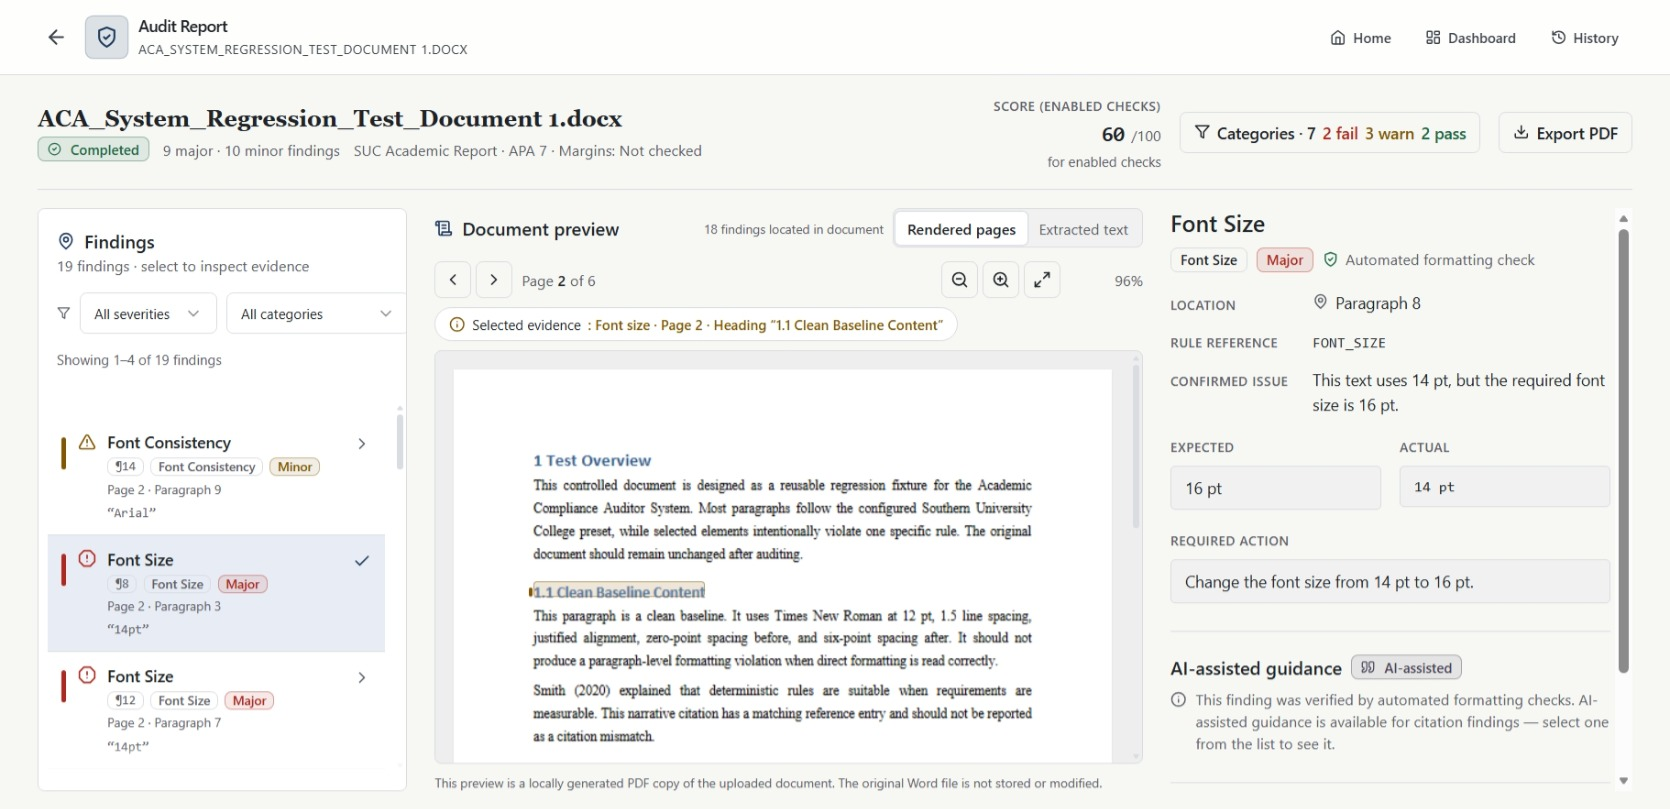
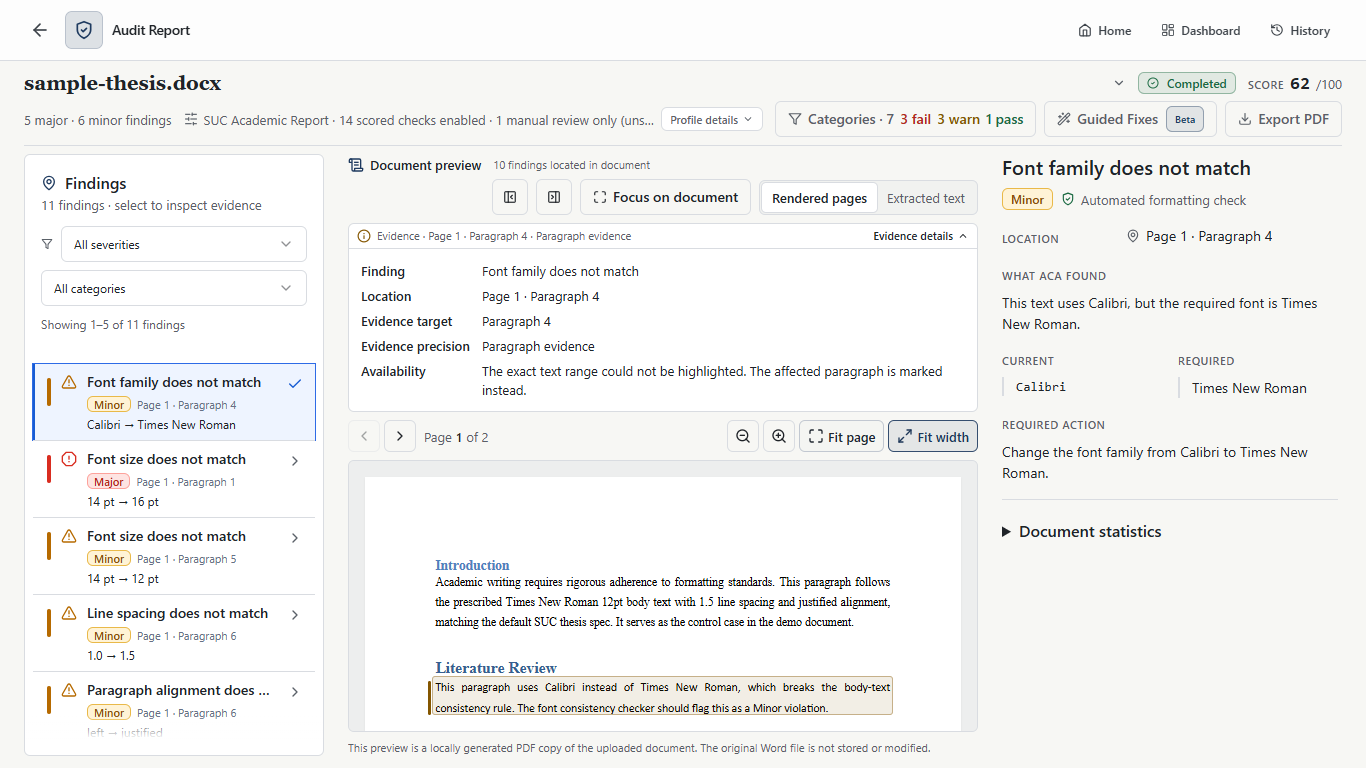
Update documentation for approved audit workspace UI

diff --git a/docs/USER_GUIDE.md b/docs/USER_GUIDE.md
@@ -22,7 +22,7 @@ Documents are processed locally on your machine. Your original DOCX file is read
 
 ## 4. Select a Formatting Profile
 
-Above the upload area, choose one of:
+On the Dashboard, use **Selected profile** to choose one of:
 
 - **SUC Academic Report** (recommended default)
 - **APA 7 Student Paper**
@@ -54,13 +54,21 @@ evidence only** shows **Rendered page could not be determined** without
 changing the current preview page. A page location does not establish
 rendered visibility, field freshness, numbering format or sequence.
 
-The Dashboard separates **Scored checks**, **Manual review only · Unscored**,
-**Not checked**, and **Citation style**. Headers, Footers, and Page numbers
-each show their own status; enabled page numbers also show placement.
-Use **Review full requirements** for the complete grouped inventory in a
-scrollable dialog. Opening it does not expand the Dashboard or move the
-audit-start controls. Escape or **Close** returns focus to its trigger.
-Header, Footer, and Page Number requirements never affect the score.
+The Dashboard summarizes the selected profile's coverage:
+
+- **Scored checks** (green) — requirements ACA checks automatically; these checks affect the compliance score.
+- **Manual review only · Unscored** (purple) — requirements that need human review and do not affect the numeric compliance score. ACA has not completed that manual review.
+- **Not checked by ACA** (restrained red) — requirements not included in this profile's automated checks, not requirements found to have failed.
+
+These groups describe coverage, not passed document results. **Citation style**
+is profile configuration, shown separately from the coverage groups.
+
+Use **Review full requirements** to open **Full profile requirements**, a
+scrollable modal for the **currently selected profile**. It includes the
+profile overview, formatting exemptions, Scored checks, Manual review only,
+Not checked, and Citation settings. Opening it does not expand the Dashboard
+or move the audit-start controls. Escape or **Close** returns focus to its
+trigger. Header, Footer, and Page Number requirements never affect the score.
 
 Inspect and correct these requirements manually in Word; Local AI and
 Guided Fixes do not apply. Existing History entries retain their saved
@@ -78,24 +86,39 @@ Results open in the Audit Workspace:
 
 - **Score** — a weighted compliance score out of 100 for the checks your profile enables. Major findings deduct more than minor ones. Very old audits may show *Unavailable* instead of a score.
 - **Findings list** — compact rows show the finding, severity, location and current-to-required comparison where available. Use the severity and category filters to narrow the list; select a row to read its complete details.
-- **Current and Required** — what ACA found versus what the saved profile requires, followed by the required action in Finding Details.
-- **Not checked** — a profile requirement can be switched off (for example, margins); this means the check does not apply, not that it passed.
+- **What ACA found** — the selected finding's existing explanation, when available, before its comparison values.
+- **Current and Required** — read-only report values: what the document contains and what the saved profile requires. They are not editable fields.
+- **Required action** — explains the action to take to address the selected finding.
+- **Not checked** — a requirement is not included in the selected profile's automated checks; this does not mean it passed.
+
+A proposed correction appears only through the **Guided Fixes** proposal
+workflow, not for every finding in ordinary Finding Details.
 
 ACA reports the checks it supports. **It does not guarantee institutional acceptance or complete academic compliance** — treat findings as guidance for your own review.
 
 Open the document-name disclosure in the report header to read a long filename
 without leaving the workspace. It supports keyboard activation and Escape to
-close. **Profile details** always describes that audit's saved profile snapshot,
-not a later edit to the current profile.
+close. **Profile details** opens a modal showing the **saved profile snapshot
+associated with that audit**, not the currently selected Dashboard profile.
+Later edits to, or deletion of, a live profile do not silently change the
+saved snapshot.
 
 ## 7. View Finding Evidence
 
-Selecting a finding shows its evidence:
+Selecting a finding shows its available evidence:
 
 - **Location** — the finding's location in plain language, such as a heading, paragraph, figure, or table (never internal numbering).
-- **Rendered-page preview** — a page preview of your document with the finding highlighted. This needs the optional LibreOffice integration.
-- **Extracted text** — when page preview is unavailable, the finding links to the exact paragraph in the extracted text view instead.
+- **Rendered-page preview** — a page preview of your document with highlights where supported. This needs the optional LibreOffice integration.
+- **Extracted text** — when page preview is unavailable, supported findings link to their paragraph in the extracted text view instead.
 - **Page navigation and zoom** — previous/next controls change pages; zoom and Fit page/Fit width controls change the view. The active Fit button identifies the fit mode; a manual zoom shows its percentage.
+- **Evidence details** — an inline disclosure below the Document Preview heading, available when evidence metadata exists. It shows labelled location, target and precision values, plus Availability information where applicable.
+
+**Evidence details** does not open a blocking modal. Expand or collapse it
+with its control (Enter or Space when focused); Preview remains usable while
+it is expanded, including page navigation, zoom and view-mode controls.
+Changing the selected finding updates the evidence without retaining the
+previous finding's Availability text. Limited or unavailable evidence is
+labelled truthfully; when no evidence metadata exists, no disclosure is shown.
 
 The preview is a locally generated copy of your document; the original Word file is not stored or modified.
 

diff --git a/README.md b/README.md
@@ -40,7 +40,7 @@ After an audit, ACA shows what it found and why:
 - Links supported body findings to a rendered page preview when the optional LibreOffice integration is available, or to extracted text otherwise. Structural reviews identify stored section/story definitions without a visual region.
 - Produces a PDF report you can save or share.
 
-![Academic Compliance Auditor workspace showing findings, rendered-page evidence, expected and actual values, and PDF export.](docs/images/aca-audit-workspace.png)
+![Academic Compliance Auditor workspace showing compact findings, Document Preview with inline Evidence details, and read-only Current and Required values.](docs/images/aca-audit-workspace.png)
 
 ### Optional Header, Footer and Page Number reviews
 
